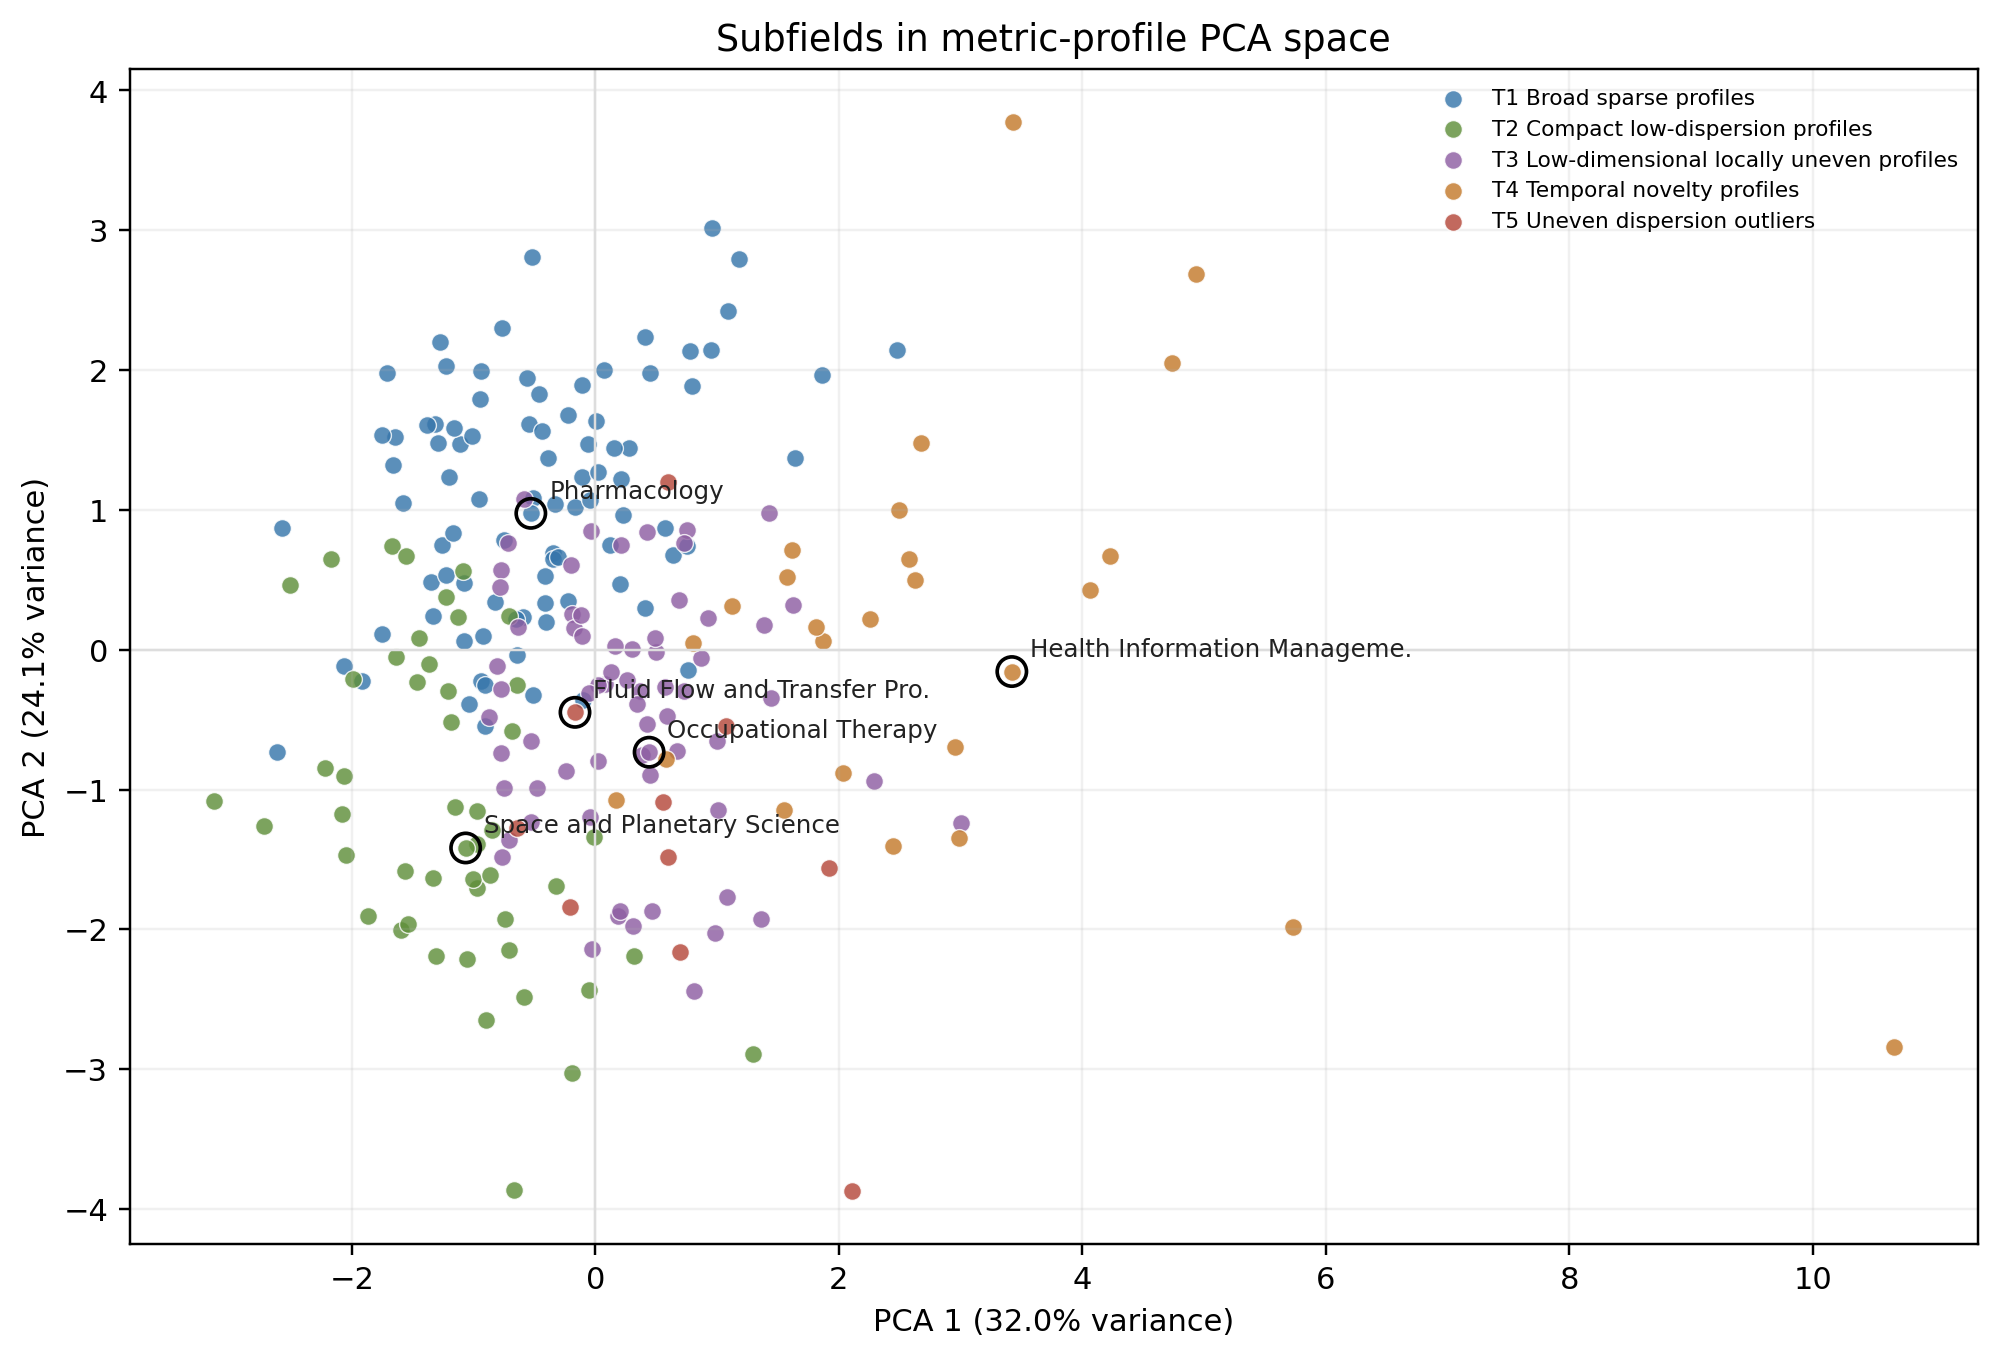
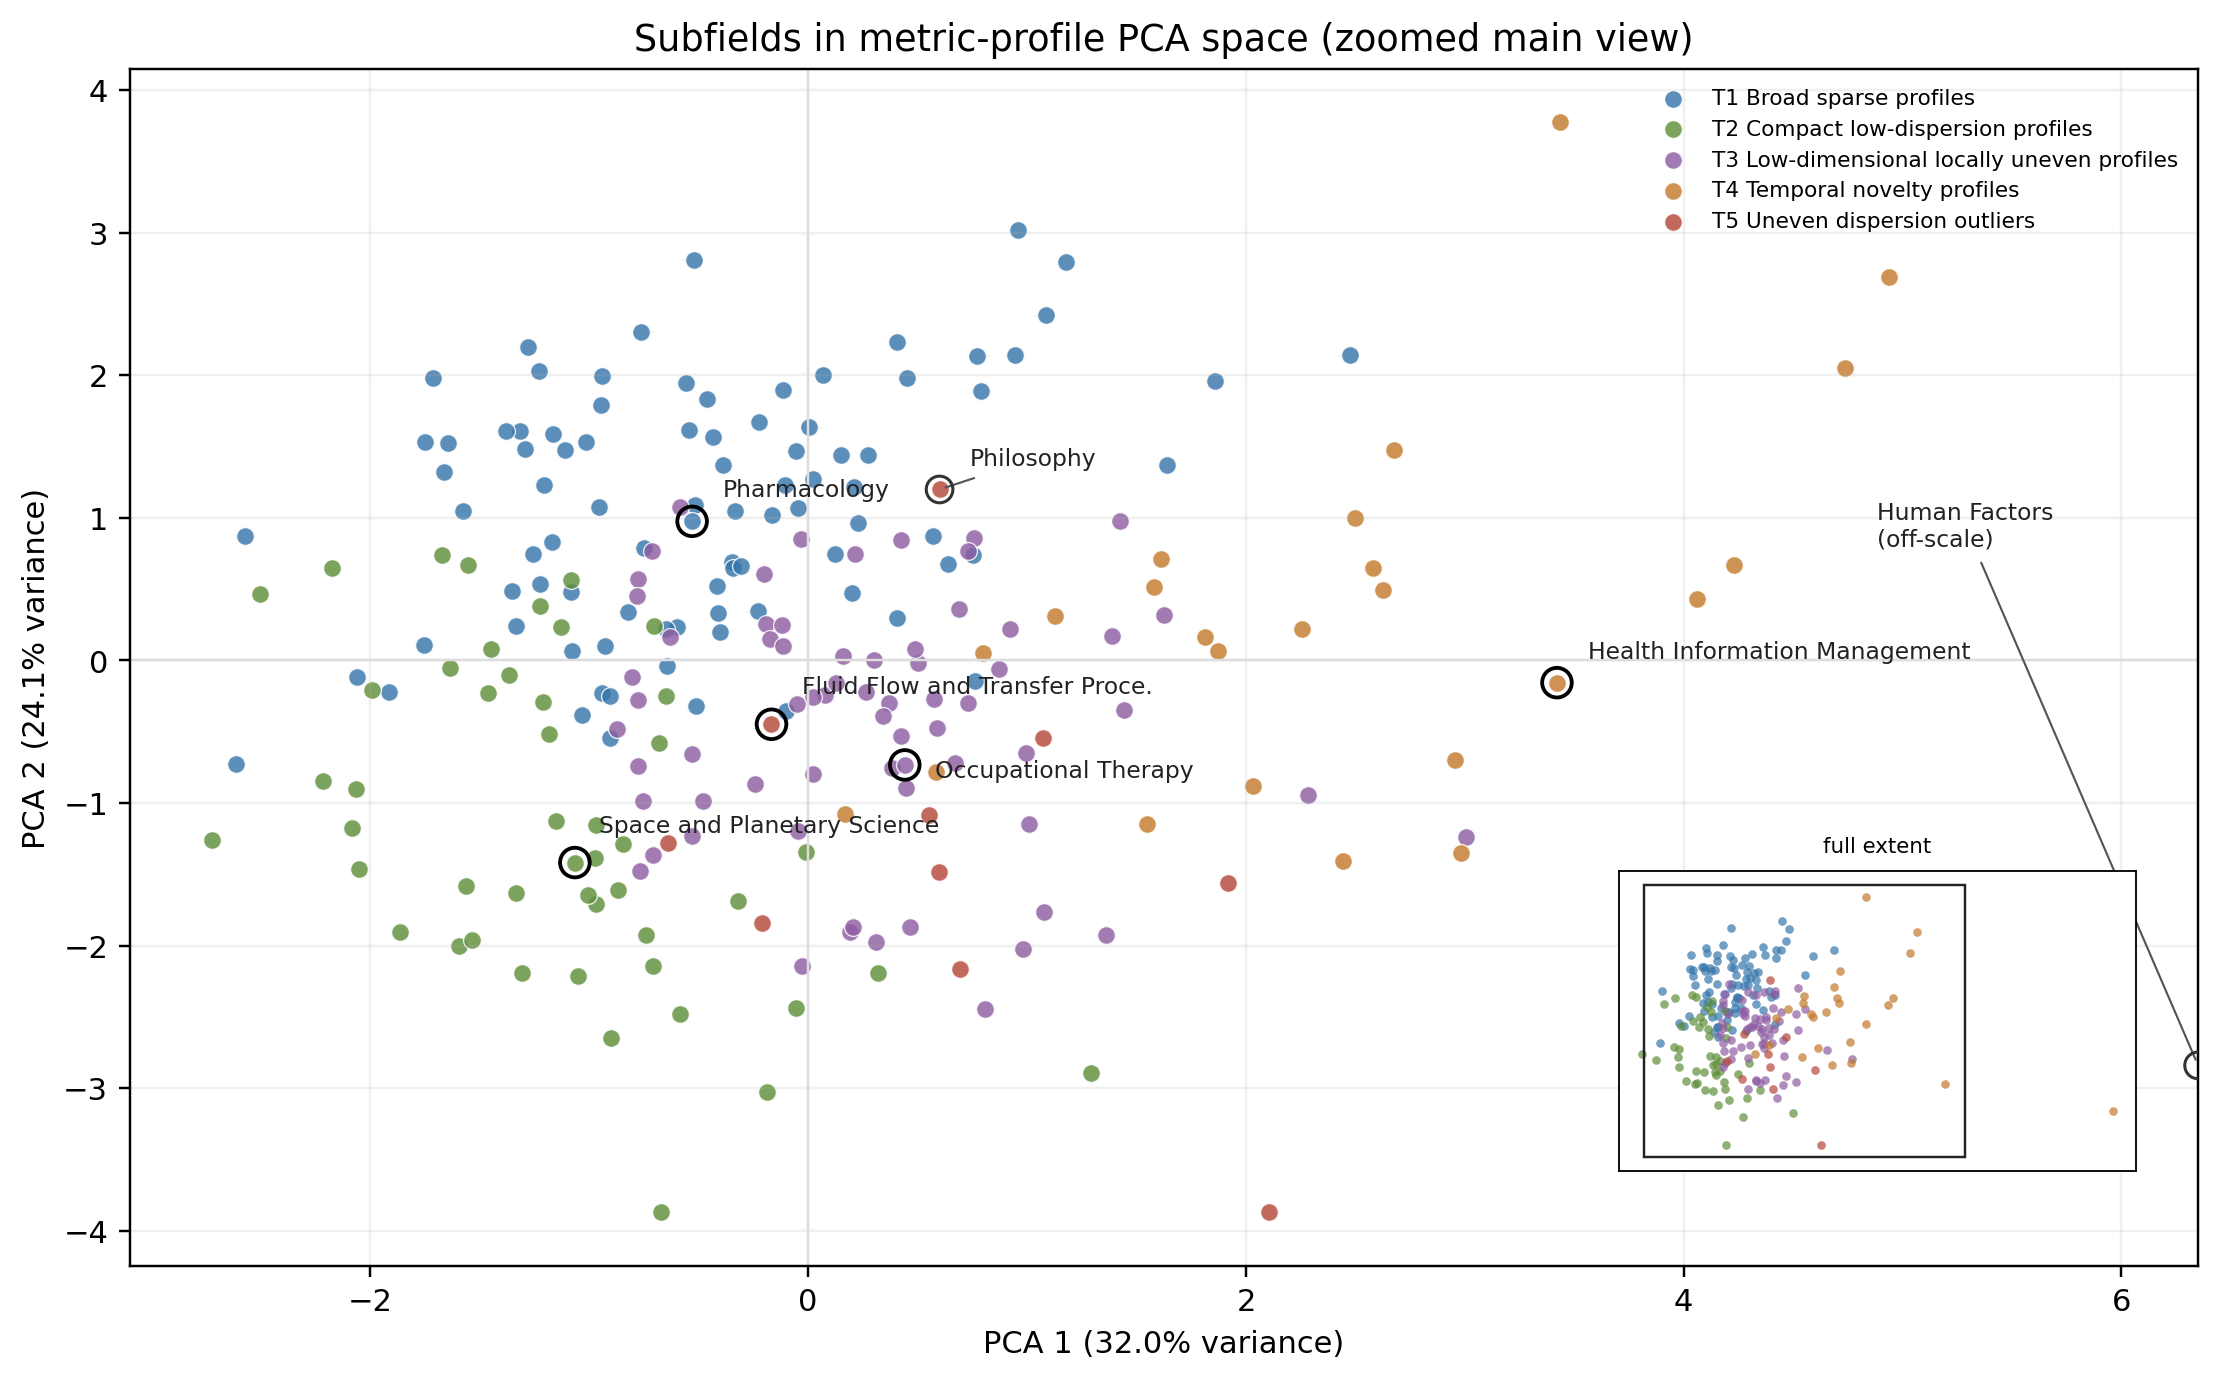
Update morphological typologies documentation and enhance PCA visualization
- Updated generation timestamp in the morphological typologies documentation.
- Improved PCA map description and added a zoomed inset for better clarity.
- Revised typology examples and summary tables to include more accurate representative subfields.
- Enhanced the plotting function to improve visual representation and labeling of prototypes and outliers.

diff --git a/src/morphological_typologies.py b/src/morphological_typologies.py
@@ -9,6 +9,7 @@ import matplotlib
 
 matplotlib.use("Agg")
 
+import matplotlib.patches as patches
 import matplotlib.pyplot as plt
 import numpy as np
 import pandas as pd
@@ -1062,6 +1063,32 @@ def _short_name(value: str, max_chars: int = 28) -> str:
     return value[: max_chars - 1].rstrip() + "."
 
 
+def _name_key(value: object) -> str:
+    return " ".join(str(value).casefold().strip().split())
+
+
+def _select_unique_display_names(
+    frame: pd.DataFrame,
+    *,
+    sort_by: str,
+    ascending: bool,
+    max_items: int,
+    used_names: set[str],
+    max_chars: int,
+) -> list[str]:
+    selected: list[str] = []
+    for row in frame.sort_values(sort_by, ascending=ascending, kind="mergesort").itertuples():
+        name = str(row.subfield_display_name)
+        key = _name_key(name)
+        if key in used_names:
+            continue
+        selected.append(_short_name(name, max_chars=max_chars))
+        used_names.add(key)
+        if len(selected) >= max_items:
+            break
+    return selected
+
+
 def plot_pca_map(
     pca_frame: pd.DataFrame,
     *,
@@ -1069,7 +1096,7 @@ def plot_pca_map(
     output_dir: Path,
     figure_dir: Path,
 ) -> None:
-    fig, ax = plt.subplots(figsize=(9.2, 6.3))
+    fig, ax = plt.subplots(figsize=(10.2, 6.4))
     for typology_id, label in TYPOLOGY_ORDER:
         subset = pca_frame.loc[pca_frame["typology_id"] == typology_id]
         ax.scatter(
@@ -1087,31 +1114,94 @@ def plot_pca_map(
         .groupby("typology_id", sort=True)
         .head(1)
     )
-    for row in prototypes.itertuples():
+    prototype_ids = set(prototypes["subfield_id"].astype(str))
+    outliers = (
+        pca_frame.loc[~pca_frame["subfield_id"].astype(str).isin(prototype_ids)]
+        .sort_values("distance_to_typology_centroid", ascending=False, kind="mergesort")
+        .head(3)
+    )
+    label_rows = pd.concat([prototypes.assign(label_role="prototype"), outliers.assign(label_role="outlier")])
+    x_min, x_max = -3.1, 6.35
+    y_min, y_max = -4.25, 4.15
+    offsets = {
+        "Pharmacology": (10, 8),
+        "Space and Planetary Science": (8, 10),
+        "Occupational Therapy": (10, -4),
+        "Health Information Management": (10, 8),
+        "Fluid Flow and Transfer Processes": (10, 10),
+        "Computational Mathematics": (-90, -2),
+        "Philosophy": (10, 8),
+        "Human Factors and Ergonomics": (-105, 170),
+    }
+    for row in label_rows.itertuples():
+        edgecolor = "black" if row.label_role == "prototype" else "#333333"
+        linewidth = 1.25 if row.label_role == "prototype" else 1.0
+        visible_x = min(max(float(row.pca_1), x_min), x_max)
+        visible_y = min(max(float(row.pca_2), y_min), y_max)
         ax.scatter(
-            [row.pca_1],
-            [row.pca_2],
-            s=92,
+            [visible_x],
+            [visible_y],
+            s=94 if row.label_role == "prototype" else 76,
             facecolors="none",
-            edgecolors="black",
-            linewidth=1.2,
+            edgecolors=edgecolor,
+            linewidth=linewidth,
             zorder=5,
         )
+        label = _short_name(row.subfield_display_name, max_chars=30)
+        if str(row.subfield_display_name) == "Human Factors and Ergonomics":
+            label = "Human Factors\n(off-scale)"
+        elif float(row.pca_1) > x_max:
+            label = f"{label} (off-scale)"
+        xy = (visible_x, visible_y)
+        offset = offsets.get(str(row.subfield_display_name), (7, 6))
         ax.annotate(
-            _short_name(row.subfield_display_name),
-            xy=(row.pca_1, row.pca_2),
-            xytext=(6, 5),
+            label,
+            xy=xy,
+            xytext=offset,
             textcoords="offset points",
-            fontsize=8,
+            fontsize=7.7,
             color="#222222",
+            arrowprops=(
+                {"arrowstyle": "-", "color": "#555555", "linewidth": 0.7, "shrinkA": 2, "shrinkB": 2}
+                if row.label_role == "outlier" or float(row.pca_1) > x_max
+                else None
+            ),
         )
     ax.axhline(0, color="#dddddd", linewidth=0.8)
     ax.axvline(0, color="#dddddd", linewidth=0.8)
+    ax.set_xlim(x_min, x_max)
+    ax.set_ylim(y_min, y_max)
     ax.set_xlabel(f"PCA 1 ({pca.explained_variance_ratio_[0] * 100:.1f}% variance)", fontsize=10)
     ax.set_ylabel(f"PCA 2 ({pca.explained_variance_ratio_[1] * 100:.1f}% variance)", fontsize=10)
-    ax.set_title("Subfields in metric-profile PCA space", fontsize=12)
+    ax.set_title("Subfields in metric-profile PCA space (zoomed main view)", fontsize=12)
     ax.grid(True, alpha=0.18)
-    ax.legend(fontsize=7.1, frameon=False, loc="best", ncol=1)
+    ax.legend(fontsize=7.1, frameon=False, loc="upper right", ncol=1)
+
+    inset = ax.inset_axes([0.72, 0.08, 0.25, 0.25])
+    for typology_id, _label in TYPOLOGY_ORDER:
+        subset = pca_frame.loc[pca_frame["typology_id"] == typology_id]
+        inset.scatter(
+            subset["pca_1"],
+            subset["pca_2"],
+            s=8,
+            c=TYPOLOGY_COLORS[typology_id],
+            alpha=0.70,
+            linewidth=0,
+        )
+    zoom_box = patches.Rectangle(
+        (x_min, y_min),
+        x_max - x_min,
+        y_max - y_min,
+        fill=False,
+        edgecolor="#222222",
+        linewidth=0.8,
+    )
+    inset.add_patch(zoom_box)
+    inset.set_title("full extent", fontsize=7)
+    inset.set_xticks([])
+    inset.set_yticks([])
+    for spine in inset.spines.values():
+        spine.set_linewidth(0.6)
     fig.tight_layout()
     _save_figure(fig, "fig_09_typology_pca_map", output_dir=output_dir, figure_dir=figure_dir)
 
@@ -1259,14 +1349,18 @@ def write_typology_summary_table(
     path = Path(path)
     path.parent.mkdir(parents=True, exist_ok=True)
     rows: list[str] = []
+    used_representative_names: set[str] = set()
     for row in profile_summary.itertuples():
         subset = assignments.loc[assignments["typology_id"] == row.typology_id]
-        representatives = _compact_list(
-            subset.sort_values("distance_to_typology_centroid", kind="mergesort")[
-                "subfield_display_name"
-            ].tolist(),
-            max_items=3,
-            max_chars=31,
+        representatives = "; ".join(
+            _select_unique_display_names(
+                subset,
+                sort_by="distance_to_typology_centroid",
+                ascending=True,
+                max_items=3,
+                used_names=used_representative_names,
+                max_chars=31,
+            )
         )
         top_domains = (
             subset["domain_display_name"].value_counts().head(2).items()
@@ -1303,7 +1397,7 @@ def write_typology_summary_table(
             r"\end{tabular}",
             r"\endgroup",
             r"\par\vspace{0.15cm}",
-            r"\footnotesize\textit{Note.} Typologies are obtained from Ward clustering of robust-scaled eleven-metric subfield profiles. Representative subfields are closest to each typology centroid in the standardized metric space.",
+            r"\footnotesize\textit{Note.} Typologies are obtained from Ward clustering of robust-scaled eleven-metric subfield profiles. Representative subfields are the closest non-repeated display names to each typology centroid in the standardized metric space.",
             r"\end{table}",
         ]
     )
@@ -1316,26 +1410,36 @@ def write_typology_examples_table(path: str | Path, assignments: pd.DataFrame) -
     rows: list[str] = []
     for typology_id, label in TYPOLOGY_ORDER:
         subset = assignments.loc[assignments["typology_id"] == typology_id]
-        prototypes = _compact_list(
-            subset.sort_values("distance_to_typology_centroid", kind="mergesort")[
-                "subfield_display_name"
-            ].tolist(),
-            max_items=3,
-            max_chars=34,
+        used_names: set[str] = set()
+        prototypes = "; ".join(
+            _select_unique_display_names(
+                subset,
+                sort_by="distance_to_typology_centroid",
+                ascending=True,
+                max_items=3,
+                used_names=used_names,
+                max_chars=34,
+            )
         )
-        borderline = _compact_list(
-            subset.sort_values("border_margin", kind="mergesort")[
-                "subfield_display_name"
-            ].tolist(),
-            max_items=3,
-            max_chars=34,
+        borderline = "; ".join(
+            _select_unique_display_names(
+                subset,
+                sort_by="border_margin",
+                ascending=True,
+                max_items=3,
+                used_names=used_names,
+                max_chars=34,
+            )
         )
-        distant = _compact_list(
-            subset.sort_values("distance_to_typology_centroid", ascending=False, kind="mergesort")[
-                "subfield_display_name"
-            ].tolist(),
-            max_items=2,
-            max_chars=34,
+        distant = "; ".join(
+            _select_unique_display_names(
+                subset,
+                sort_by="distance_to_typology_centroid",
+                ascending=False,
+                max_items=2,
+                used_names=used_names,
+                max_chars=34,
+            )
         )
         rows.append(
             " & ".join(

diff --git a/memory/chapters/09_clustering.tex b/memory/chapters/09_clustering.tex
@@ -57,11 +57,11 @@ The typologies partly align with OpenAlex domains, but none is a pure domain pro
 \includegraphics[width=\textwidth]{figures/fig_09_typology_domain_composition.png}
 \end{figure}
 
-The PCA map in Figure~\ref{fig:typology_pca_map} gives a visual check on the same claim. It projects the robust-scaled eleven-metric profiles into two dimensions after clustering. The first two principal components explain 32.0 percent and 24.1 percent of the profile variance, enough to orient the reader but not enough to define the clustering geometry. The map shows broad regions rather than clean islands. T4 stretches toward a high-drift, high-novelty side of the space; T5 contains several distant profiles; and T1, T2, and T3 overlap around the middle.
+The PCA map in Figure~\ref{fig:typology_pca_map} gives a visual check on the same claim. It projects the robust-scaled eleven-metric profiles into two dimensions after clustering. The first two principal components explain 32.0 percent and 24.1 percent of the profile variance, enough to orient the reader but not enough to define the clustering geometry. The main panel is zoomed to keep the central cloud readable, with a small full-extent inset showing the outlying right tail. The map shows broad regions rather than clean islands. T4 stretches toward a high-drift, high-novelty side of the space; T5 contains several distant profiles; and T1, T2, and T3 overlap around the middle.
 
 \begin{figure}[H]
 \centering
-\caption[Subfield typologies in profile PCA space]{Subfield typologies in metric-profile PCA space. Points are subfields colored by selected typology; circled points label the closest subfield to each typology centroid. PCA is used only for visualization of the robust-scaled eleven-metric profiles and is not used to assign typology membership.}
+\caption[Subfield typologies in profile PCA space]{Subfield typologies in metric-profile PCA space. Points are subfields colored by selected typology; outlined labels mark typology prototypes and the strongest outlying profiles. The main panel is zoomed for readability, while the inset shows the full PCA extent. PCA is used only for visualization of the robust-scaled eleven-metric profiles and is not used to assign typology membership.}
 \label{fig:typology_pca_map}
 \includegraphics[width=\textwidth]{figures/fig_09_typology_pca_map.png}
 \end{figure}
@@ -79,4 +79,3 @@ The clustering evidence is weak in the precise sense that the profile space does
 No single clustering criterion can settle this interpretation problem. Different reasonable algorithms reward different geometry: Ward favors compact Euclidean groups, correlation linkage favors profile shape, \(k\)-means favors centroid separation, and mixture models favor distributional fit. That is why the chapter uses diagnostics and sensitivity checks rather than treating a single score as decisive \parencite{kleinberg2002clustering}. The selected solution is defensible because it is interpretable, avoids obvious singleton artifacts at \(k=5\), retains the temporal metrics while surviving a static-only comparison, and helps synthesize the empirical chapters. It is not strong evidence that science has five morphological types.
 
 The useful conclusion is more modest. Scientific subfields occupy a continuous morphology space, but that space has repeated profile patterns. Some subfields are broad and sparse, some compact, some locally uneven, some temporally novel, and a small set unusually dispersed or irregular. Those patterns cut across domains while still carrying domain tendencies. Chapter~9 therefore closes the empirical arc by turning many pairwise and metric-level observations into a cautious typological vocabulary: not a taxonomy of science, but a map legend for reading morphology.
-

diff --git a/memory/tables/tab_09_typology_examples.tex b/memory/tables/tab_09_typology_examples.tex
@@ -10,10 +10,10 @@
 \textbf{Typology} & \textbf{Prototypical cases} & \textbf{Border cases} & \textbf{Distant members} \\
 \hline
 T1 Broad sparse profiles & Pharmacology; Environmental Engineering; Cell Biology & Computer Networks and Communicati.; Electrochemistry; Rheumatology & Nuclear and High Energy Physics; Applied Mathematics \\
-T2 Compact low-dispersion profiles & Space and Planetary Science; General Decision Sciences; Visual Arts and Performing Arts & General Dentistry; Reproductive Medicine; Mathematical Physics & General Dentistry; Research and Theory \\
+T2 Compact low-dispersion profiles & Space and Planetary Science; General Decision Sciences; Visual Arts and Performing Arts & General Dentistry; Reproductive Medicine; Mathematical Physics & Research and Theory; Classics \\
 T3 Low-dimensional locally uneven profiles & Occupational Therapy; Neurology; Conservation & Fuel Technology; Education; Immunology & Geriatrics and Gerontology; Cancer Research \\
 T4 Temporal novelty profiles & Health Information Management; Computer Science Applications; Neurology & Virology; Development; Management Information Systems & Human Factors and Ergonomics; Computational Mathematics \\
-T5 Uneven dispersion outliers & Fluid Flow and Transfer Processes; Toxicology; Complementary and Manual Therapy & Emergency Medicine; Urology; Complementary and Manual Therapy & Philosophy; Applied Microbiology and Biotechn. \\
+T5 Uneven dispersion outliers & Fluid Flow and Transfer Processes; Toxicology; Complementary and Manual Therapy & Emergency Medicine; Urology; Philosophy & Applied Microbiology and Biotechn.; Molecular Medicine \\
 \hline
 \end{tabular}
 \endgroup

diff --git a/memory/tables/tab_09_typology_summary.tex b/memory/tables/tab_09_typology_summary.tex
@@ -12,11 +12,11 @@
 T1 Broad sparse profiles & 89 & high kNN median, centroid median; low kNN CV, hub Gini & Pharmacology; Environmental Engineering; Cell Biology & Physical Sciences 51; Life Sciences 16 \\
 T2 Compact low-dispersion profiles & 49 & high PCA D80, hub Gini; low centroid P90, centroid median & Space and Planetary Science; General Decision Sciences; Visual Arts and Performing Arts & Social Sciences 17; Health Sciences 16 \\
 T3 Low-dimensional locally uneven profiles & 67 & high kNN CV, centroid drift; low PCA entropy, PCA D80 & Occupational Therapy; Neurology; Conservation & Health Sciences 26; Social Sciences 22 \\
-T4 Temporal novelty profiles & 26 & high centroid drift, recent novelty; low PCA entropy, PCA D80 & Health Information Management; Computer Science Applications; Neurology & Physical Sciences 17; Social Sciences 5 \\
+T4 Temporal novelty profiles & 26 & high centroid drift, recent novelty; low PCA entropy, PCA D80 & Health Information Management; Computer Science Applications; Geology & Physical Sciences 17; Social Sciences 5 \\
 T5 Uneven dispersion outliers & 10 & high centroid IQR, kNN CV; low PCA entropy, kNN median & Fluid Flow and Transfer Proces.; Toxicology; Complementary and Manual Thera. & Life Sciences 4; Health Sciences 4 \\
 \hline
 \end{tabular}
 \endgroup
 \par\vspace{0.15cm}
-\footnotesize\textit{Note.} Typologies are obtained from Ward clustering of robust-scaled eleven-metric subfield profiles. Representative subfields are closest to each typology centroid in the standardized metric space.
+\footnotesize\textit{Note.} Typologies are obtained from Ward clustering of robust-scaled eleven-metric subfield profiles. Representative subfields are the closest non-repeated display names to each typology centroid in the standardized metric space.
 \end{table}

diff --git a/docs/morphological_typologies.md b/docs/morphological_typologies.md
@@ -1,6 +1,6 @@
 # Exploratory Morphological Typologies
 
-Generated: 2026-05-22T11:49:41.594451+00:00
+Generated: 2026-05-22T16:54:46.086146+00:00
 
 ## Input
 